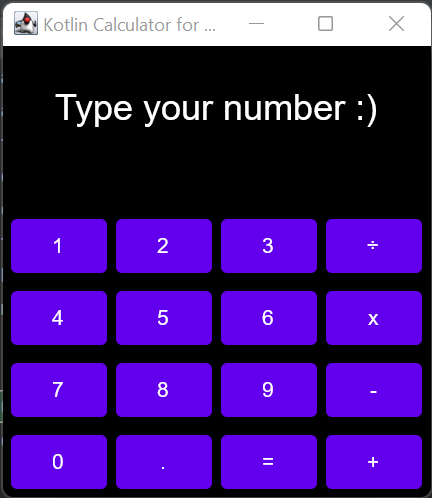
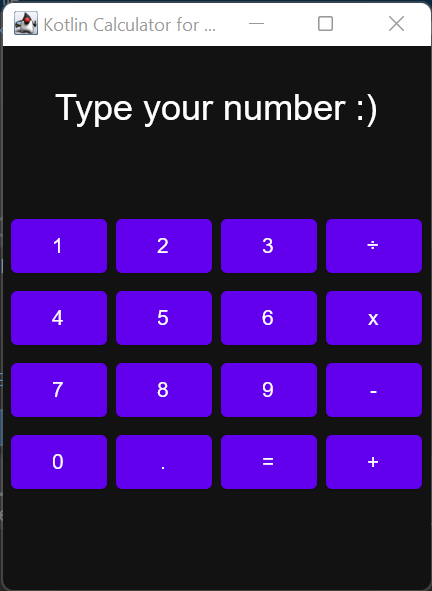
Set MaterialTheme.darkColors() as background color

diff --git a/src/main/kotlin/main.kt b/src/main/kotlin/main.kt
@@ -2,8 +2,10 @@ import androidx.compose.foundation.background
 import androidx.compose.foundation.layout.*
 import androidx.compose.material.Button
 import androidx.compose.material.MaterialTheme
+import androidx.compose.material.MaterialTheme.colors
 import androidx.compose.material.MaterialTheme.typography
 import androidx.compose.material.Text
+import androidx.compose.material.darkColors
 import androidx.compose.runtime.mutableStateOf
 import androidx.compose.runtime.remember
 import androidx.compose.ui.Alignment
@@ -21,9 +23,13 @@ fun main() = application {
     Window(
         onCloseRequest = ::exitApplication,
         title = "Kotlin Calculator for Desktop",
-        state = rememberWindowState(width = 300.dp, height = 400.dp)
+        state = rememberWindowState(width = 300.dp, height = 400.dp),
 
     ) {
+        MaterialTheme(colors = darkColors()) {
+            Box(Modifier.fillMaxSize().background(MaterialTheme.colors.background))
+        }
+
         var count = remember {
             mutableStateOf("")
         }
@@ -48,35 +54,35 @@ fun main() = application {
         MaterialTheme {
             Column(
                 horizontalAlignment = Alignment.CenterHorizontally,
-                modifier = Modifier.background(Color.Black)
+                modifier = Modifier.background(Color(121212)),
             ) {
                 Text(
                     text = "",
                     style = typography.h5,
                     color = Color.White,
                     textAlign = TextAlign.Start,
-                    modifier = Modifier.background(Color.Black),
+                    modifier = Modifier.background(Color(121212)),
                 )
                 Text(
                     text = "${display.value}",
                     style = typography.h5,
                     color = Color.White,
                     textAlign = TextAlign.Start,
-                    modifier = Modifier.background(Color.Black),
+                    modifier = Modifier.background(Color(121212)),
                 )
                 Text(
                     text = "",
                     style = typography.h5,
                     color = Color.White,
                     textAlign = TextAlign.Start,
-                    modifier = Modifier.background(Color.Black),
+                    modifier = Modifier.background(Color(121212)),
                 )
                 Text(
                     text = "",
                     style = typography.h5,
                     color = Color.White,
                     textAlign = TextAlign.Start,
-                    modifier = Modifier.background(Color.Black),
+                    modifier = Modifier.background(Color(121212)),
                 )
                 Row(modifier = Modifier
                     .fillMaxWidth(), horizontalArrangement = Arrangement.SpaceEvenly) {
